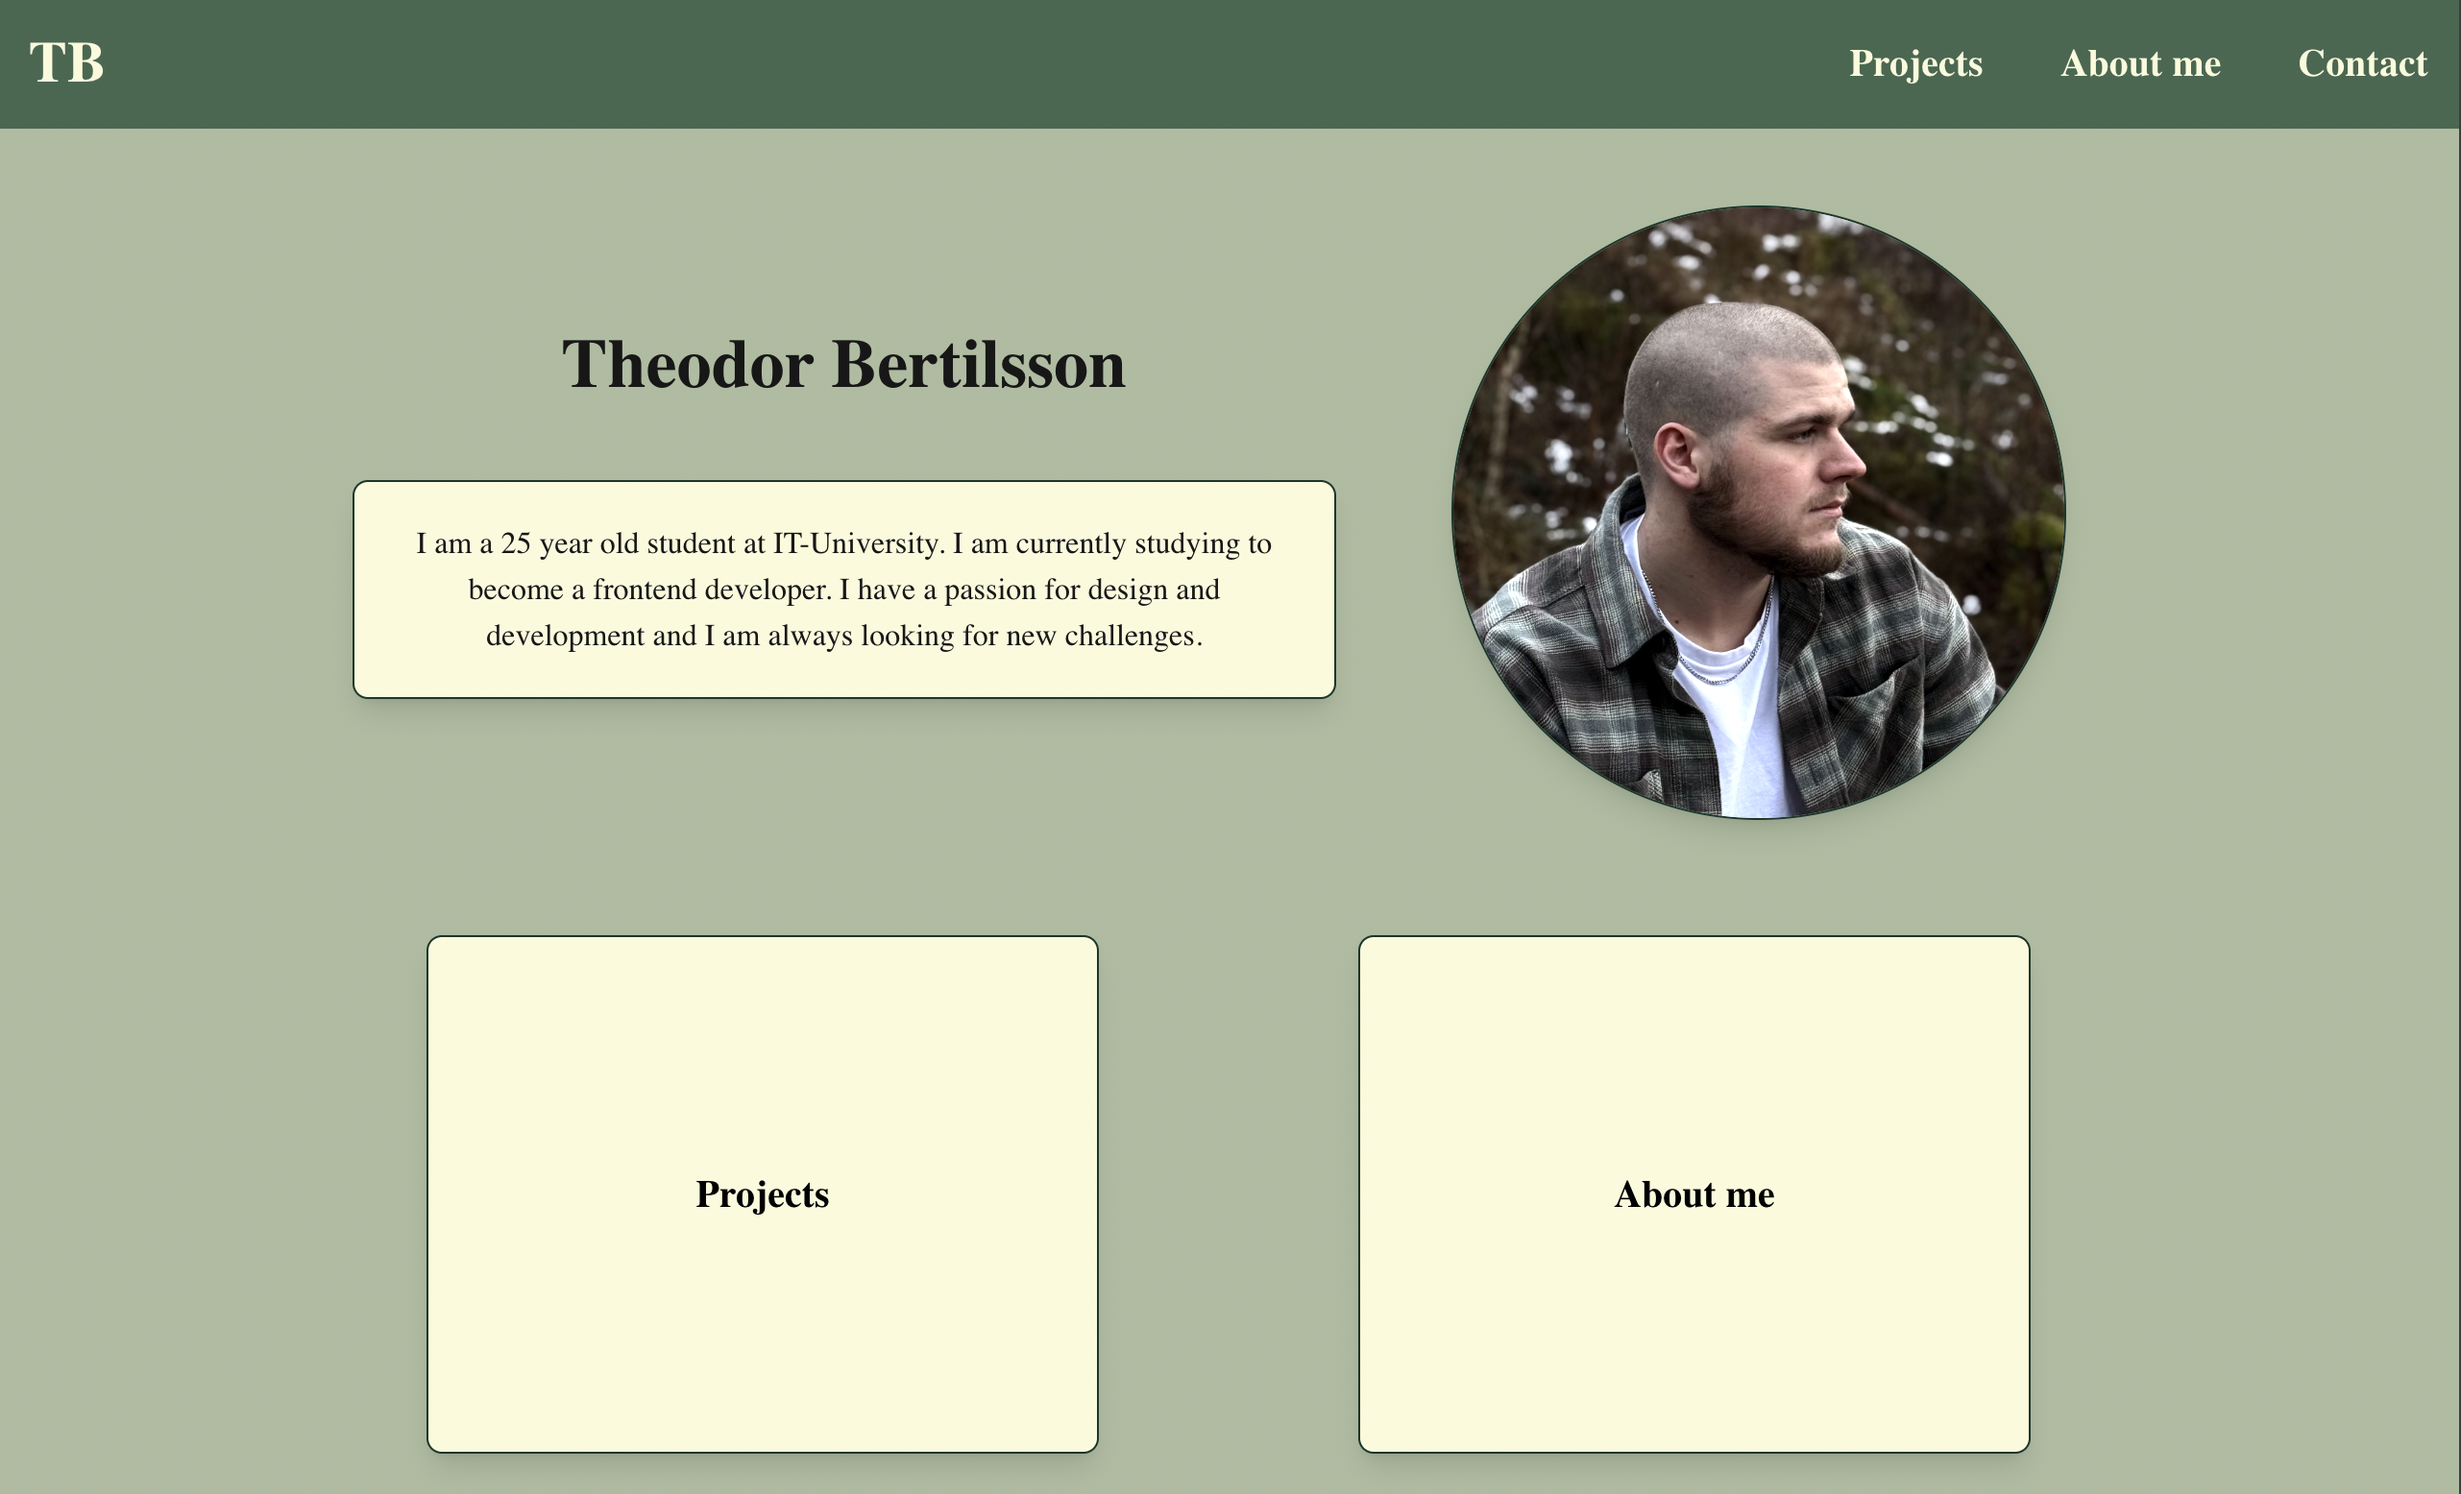
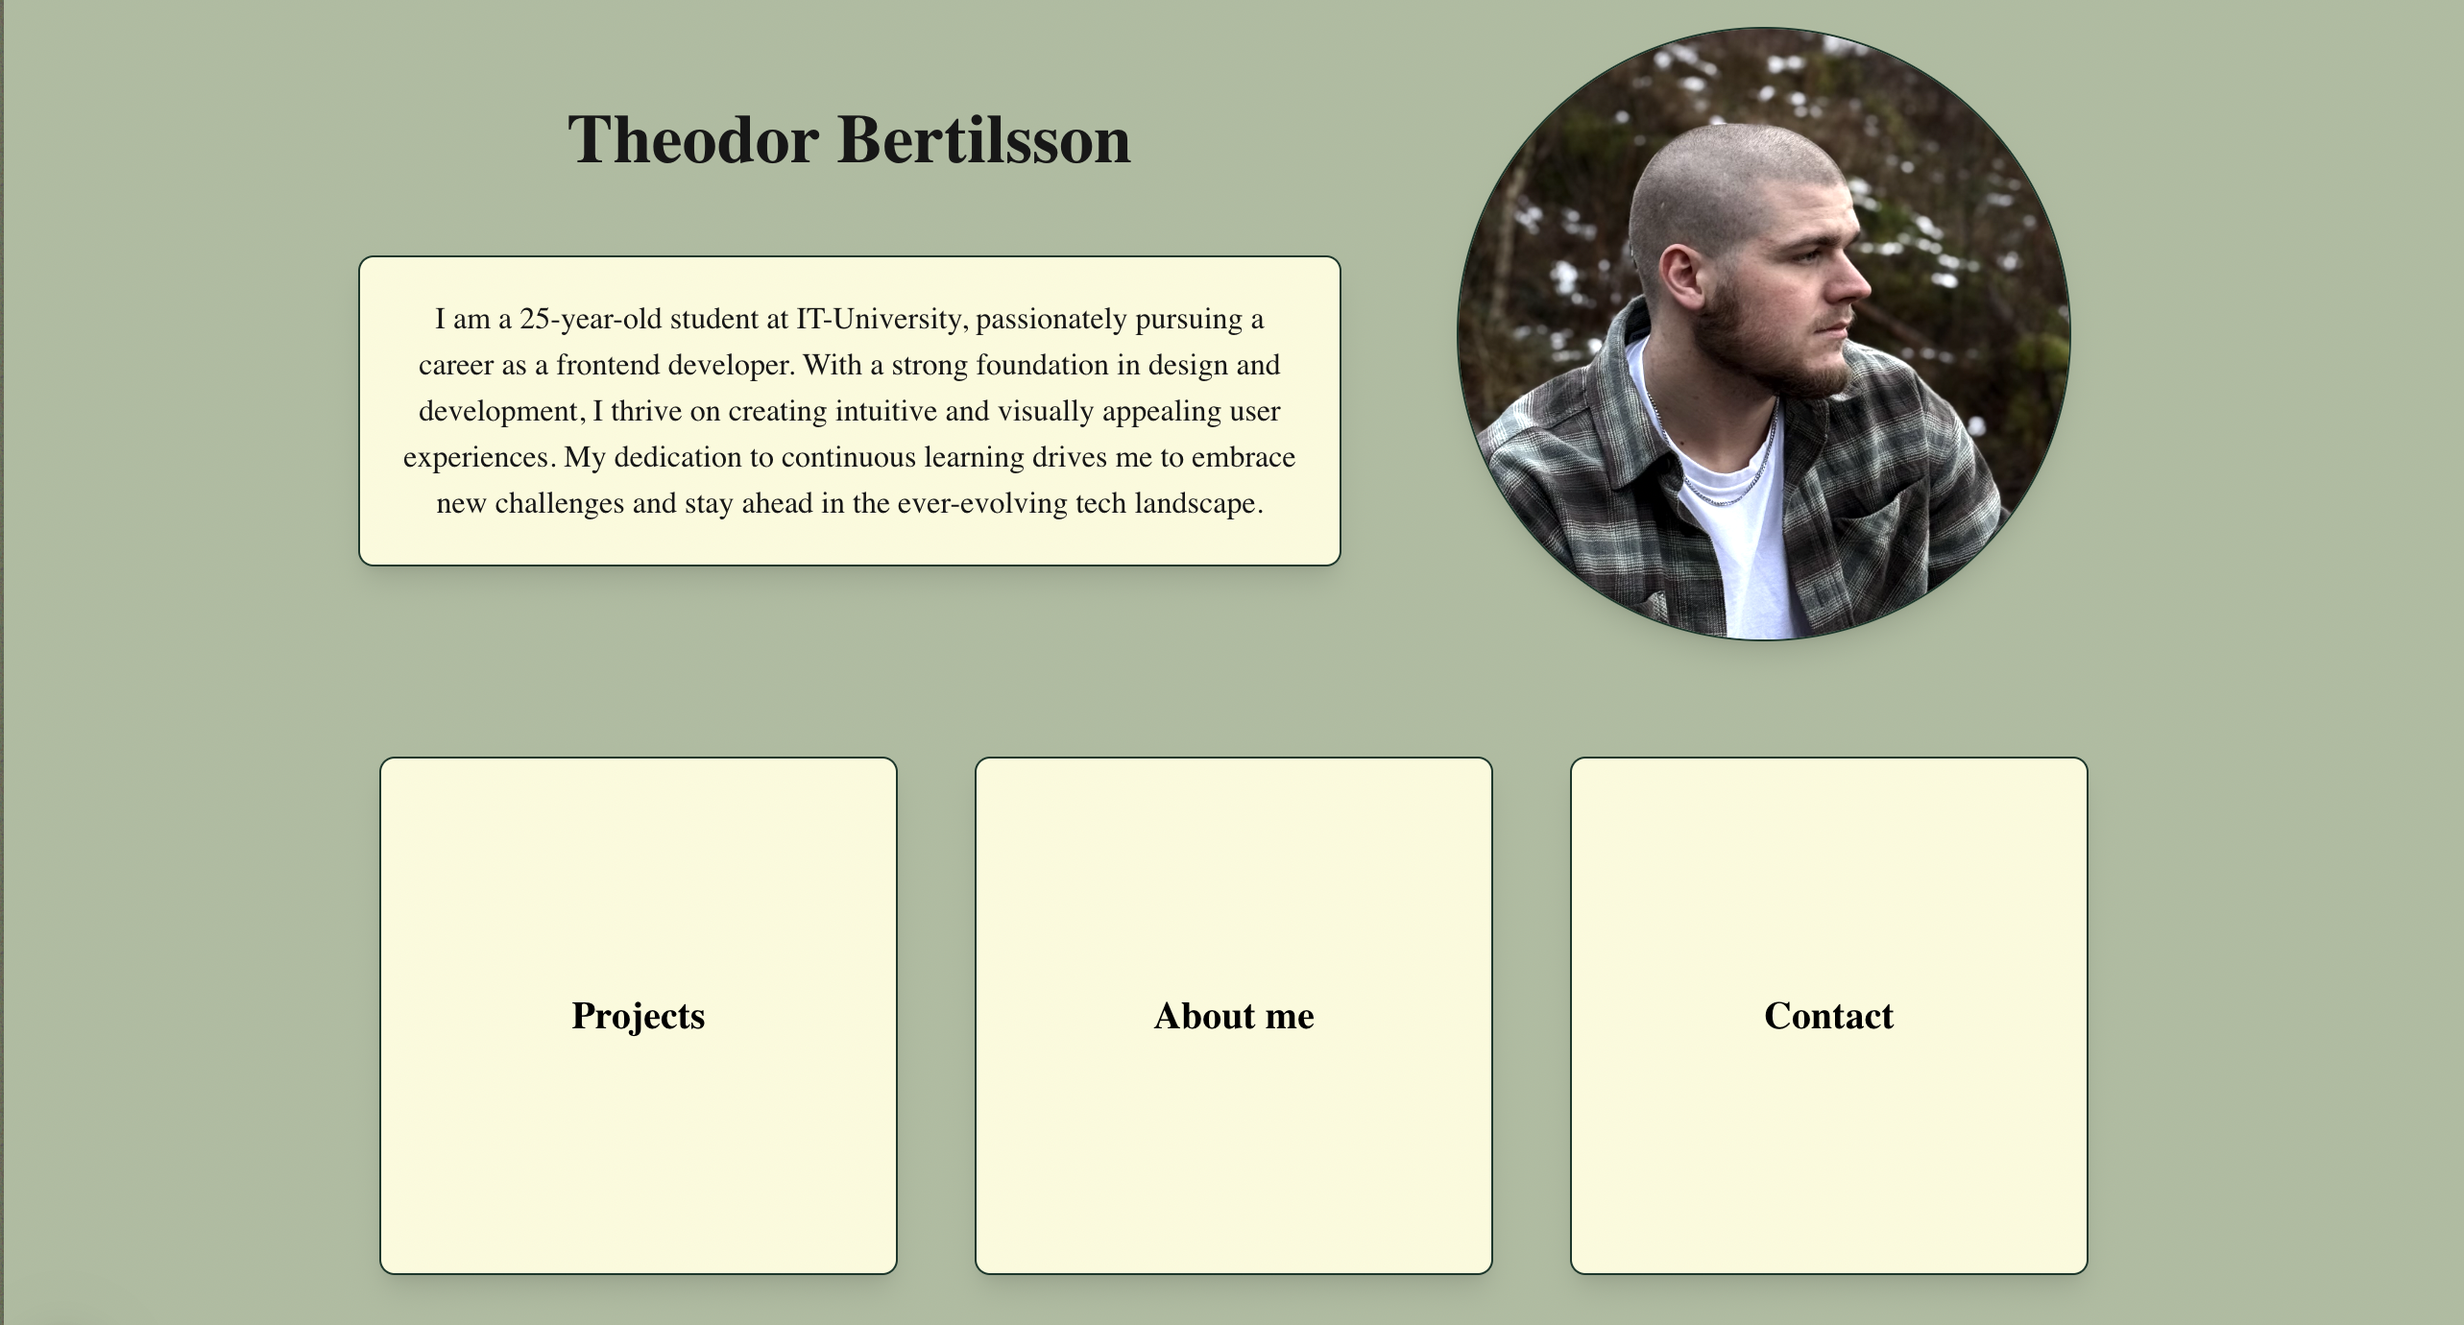
Fix: Design

diff --git a/projekt_arbete/src/app/page.tsx b/projekt_arbete/src/app/page.tsx
@@ -20,8 +20,7 @@ export default async function Home() {
 
   return (
     <>
-      <Header />
-      <main className="flex flex-col items-center justify-evenly w-4/5 my-5">
+      <main className="flex flex-col items-center justify-center w-4/5 my-5 min-h-screen">
         {response.items.map((item) => (
           <section
             className="flex flex-col-reverse lg:flex-row items-center justify-center gap-10"
@@ -44,22 +43,22 @@ export default async function Home() {
           </section>
         ))}
 
-        <section className="flex flex-wrap  justify-evenly gap-10 mt-10 w-full">
+        <section className="flex flex-wrap  justify-evenly gap-10 mt-10 ">
           <Link
             href="/projects"
-            className="w-[350px] h-[270px] rounded-lg border-border border-[1px] no-underline text-black flex justify-center items-center active:bg-[#436850] active:text-white hover:underline text-xl font-bold bg-foreground shadow-lg"
+            className="w-[300px] h-[270px] rounded-lg border-border border-[1px] no-underline text-black flex justify-center items-center active:bg-[#436850] active:text-white hover:underline text-xl font-bold bg-foreground shadow-lg"
           >
             <span>Projects</span>
           </Link>
           <Link
             href="/about"
-            className="w-[350px] h-[270px] rounded-lg border-border border-[1px] no-underline text-black flex justify-center items-center active:bg-[#436850] hover:underline text-xl font-bold active:text-white bg-foreground shadow-lg"
+            className="w-[300px] h-[270px] rounded-lg border-border border-[1px] no-underline text-black flex justify-center items-center active:bg-[#436850] hover:underline text-xl font-bold active:text-white bg-foreground shadow-lg"
           >
             <span>About me</span>
           </Link>
           <Link
             href="/contact"
-            className="w-[350px] h-[270px] rounded-lg border-border border-[1px] no-underline text-black flex justify-center items-center active:bg-[#436850] active:text-white hover:underline text-xl font-bold bg-foreground shadow-lg"
+            className="w-[300px] h-[270px] rounded-lg border-border border-[1px] no-underline text-black flex justify-center items-center active:bg-[#436850] active:text-white hover:underline text-xl font-bold bg-foreground shadow-lg"
           >
             <span>Contact</span>
           </Link>
